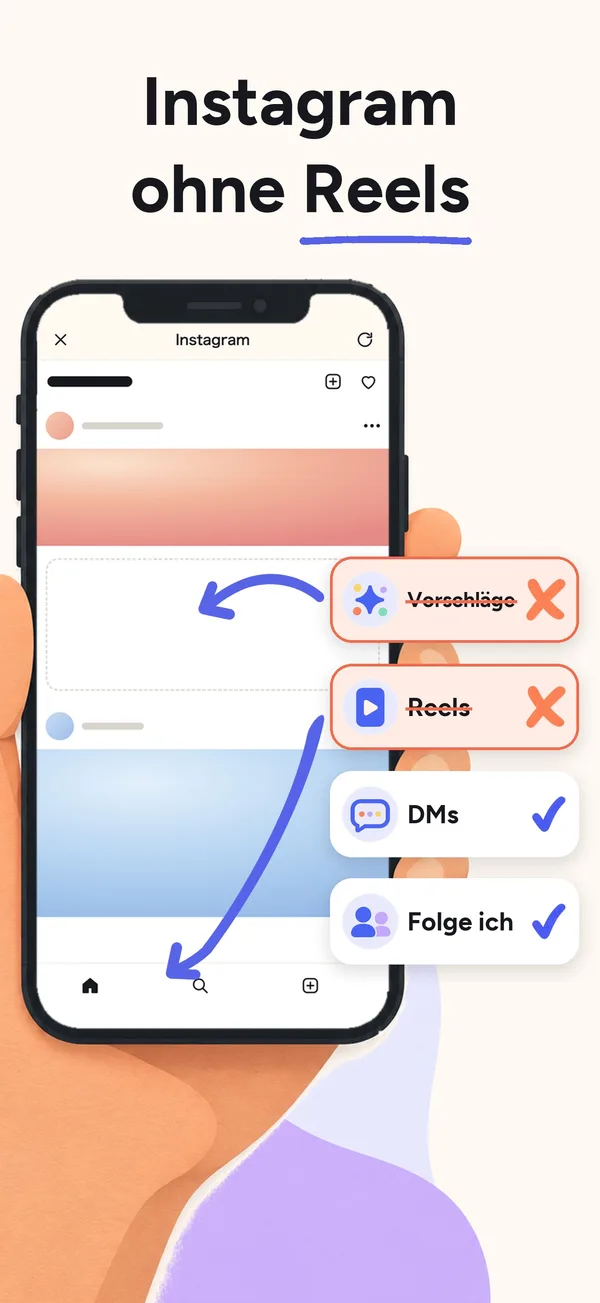
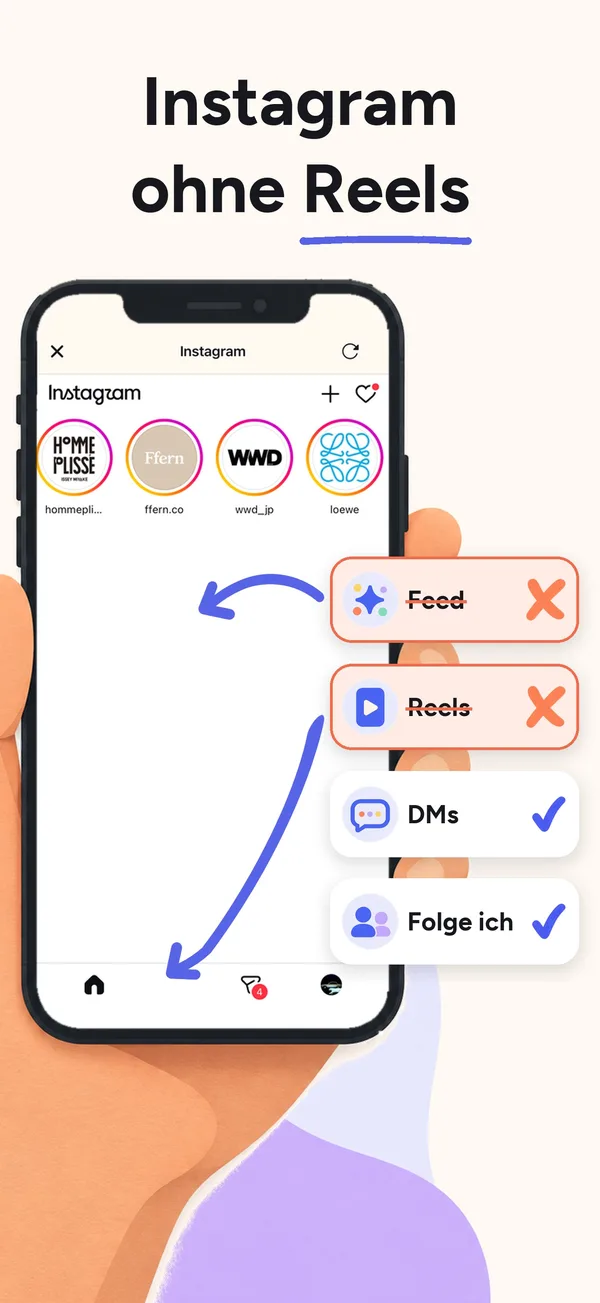
lp: トップのスクショを 1.0.13 で提出した実際の画面（store/f3set113）に／インスタの説明文を「フィードとリールが消え、DM とフォロー中は残る」に（ppo114 は描いた画面だったので戻す）

diff --git a/th/index.html b/th/index.html
@@ -381,7 +381,7 @@ h1,h2{letter-spacing:0;line-height:1.5}
     <p class="wlhome" style="margin-top:10px"><a href="https://docs.google.com/forms/d/e/1FAIpQLScTvhahKgxFJTdpDjP6pzm9rpePgJa_5gsLtuReju56xCve5g/viewform" target="_blank" rel="noopener" data-pos="hero" style="display:inline-block;padding:9px 16px;border:1.5px solid var(--ink2);border-radius:999px;font-size:13.5px;font-weight:700;color:var(--ink);text-decoration:none">ลงชื่อรอเวอร์ชัน Android <span aria-hidden="true">&rarr;</span></a></p>
   </div>
   <div class="fig heroshots">
-    <img src="m/sh-ig.webp" alt="Instagram ใน minulo ที่ซ่อนโพสต์แนะนำและ Reels แล้ว แต่ยังใช้ DM และหน้ากำลังติดตามได้" width="900" height="1955">
+    <img src="m/sh-ig.webp" alt="Instagram ใน minulo ที่ซ่อนฟีดและ Reels แล้ว แต่ยังใช้ DM และหน้ากำลังติดตามได้" width="900" height="1955">
     <img src="m/sh-yt.webp" alt="YouTube ใน minulo ที่ซ่อนแถบ Shorts แล้ว" width="900" height="1955">
   </div>
 </div></div>

diff --git a/ru/index.html b/ru/index.html
@@ -378,7 +378,7 @@ footer .bottom .langs .dot{opacity:.35}
     <p class="wlhome" style="margin-top:10px"><a href="https://docs.google.com/forms/d/e/1FAIpQLScTvhahKgxFJTdpDjP6pzm9rpePgJa_5gsLtuReju56xCve5g/viewform" target="_blank" rel="noopener" data-pos="hero" style="display:inline-block;padding:9px 16px;border:1.5px solid var(--ink2);border-radius:999px;font-size:13.5px;font-weight:700;color:var(--ink);text-decoration:none">У вас Android? Записаться в список ожидания <span aria-hidden="true">&rarr;</span></a></p>
   </div>
   <div class="fig heroshots">
-    <img src="../en/m/sh-ig.webp" alt="Instagram в minulo: рекомендации и Reels скрыты, Директ и подписки остаются" width="900" height="1955">
+    <img src="../en/m/sh-ig.webp" alt="Instagram в minulo: лента и Reels скрыты, Директ и подписки остаются" width="900" height="1955">
     <img src="../en/m/sh-yt.webp" alt="YouTube в minulo: полка Shorts скрыта" width="900" height="1955">
   </div>
 </div></div>

diff --git a/vi/index.html b/vi/index.html
@@ -379,7 +379,7 @@ body{font-family:system-ui,-apple-system,"Segoe UI",Roboto,"Noto Sans",sans-seri
     <p class="wlhome" style="margin-top:10px"><a href="https://docs.google.com/forms/d/e/1FAIpQLScTvhahKgxFJTdpDjP6pzm9rpePgJa_5gsLtuReju56xCve5g/viewform" target="_blank" rel="noopener" data-pos="hero" style="display:inline-block;padding:9px 16px;border:1.5px solid var(--ink2);border-radius:999px;font-size:13.5px;font-weight:700;color:var(--ink);text-decoration:none">Đăng ký chờ bản Android <span aria-hidden="true">&rarr;</span></a></p>
   </div>
   <div class="fig heroshots">
-    <img src="../en/m/sh-ig.webp" alt="Instagram trong minulo: gợi ý và Reels đã được ẩn, tin nhắn và Đang theo dõi vẫn còn" width="900" height="1955">
+    <img src="../en/m/sh-ig.webp" alt="Instagram trong minulo: bảng tin và Reels đã được ẩn, tin nhắn và Đang theo dõi vẫn còn" width="900" height="1955">
     <img src="../en/m/sh-yt.webp" alt="YouTube trong minulo, mục Shorts đã được ẩn" width="900" height="1955">
   </div>
 </div></div>

diff --git a/index.html b/index.html
@@ -381,7 +381,7 @@ footer .bottom .langs .dot{opacity:.35}
     <p class="wlhome" style="margin-top:10px"><a href="https://docs.google.com/forms/d/e/1FAIpQLScTvhahKgxFJTdpDjP6pzm9rpePgJa_5gsLtuReju56xCve5g/viewform" target="_blank" rel="noopener" data-pos="hero" style="display:inline-block;padding:9px 16px;border:1.5px solid var(--ink2);border-radius:999px;font-size:13.5px;font-weight:700;color:var(--ink);text-decoration:none">Android 版の順番待ちに登録 <span aria-hidden="true">&rarr;</span></a></p>
   </div>
   <div class="fig heroshots">
-    <img src="m/sh-ig.webp" alt="minuloで開いたInstagram。おすすめとリールが消えて、DMとフォロー中は残る" width="900" height="1955">
+    <img src="m/sh-ig.webp" alt="minuloで開いたInstagram。フィードとリールが消えて、DMとフォロー中は残る" width="900" height="1955">
     <img src="m/sh-yt.webp" alt="minuloで開いたYouTube。ショート動画の棚が非表示になっている" width="900" height="1955">
   </div>
 </div></div>

diff --git a/zh-Hant/index.html b/zh-Hant/index.html
@@ -380,7 +380,7 @@ body{font-family:"Figtree",system-ui,-apple-system,"PingFang TC","Noto Sans TC",
     <p class="wlhome" style="margin-top:10px"><a href="https://docs.google.com/forms/d/e/1FAIpQLScTvhahKgxFJTdpDjP6pzm9rpePgJa_5gsLtuReju56xCve5g/viewform" target="_blank" rel="noopener" data-pos="hero" style="display:inline-block;padding:9px 16px;border:1.5px solid var(--ink2);border-radius:999px;font-size:13.5px;font-weight:700;color:var(--ink);text-decoration:none">加入 Android 版等候名單 <span aria-hidden="true">&rarr;</span></a></p>
   </div>
   <div class="fig heroshots">
-    <img src="m/sh-ig.webp" alt="在 minulo 開啟的 Instagram，建議貼文和 Reels 已隱藏，私訊和追蹤中照常可用" width="900" height="1955">
+    <img src="m/sh-ig.webp" alt="在 minulo 開啟的 Instagram，動態和 Reels 已隱藏，私訊和追蹤中照常可用" width="900" height="1955">
     <img src="m/sh-yt.webp" alt="在 minulo 開啟的 YouTube，Shorts 區塊已隱藏" width="900" height="1955">
   </div>
 </div></div>

diff --git a/ko/index.html b/ko/index.html
@@ -380,7 +380,7 @@ h1,h2,h3,.chip,.pane li{word-break:keep-all}
     <p class="wlhome" style="margin-top:10px"><a href="https://docs.google.com/forms/d/e/1FAIpQLScTvhahKgxFJTdpDjP6pzm9rpePgJa_5gsLtuReju56xCve5g/viewform" target="_blank" rel="noopener" data-pos="hero" style="display:inline-block;padding:9px 16px;border:1.5px solid var(--ink2);border-radius:999px;font-size:13.5px;font-weight:700;color:var(--ink);text-decoration:none">Android 버전 대기 명단에 등록 <span aria-hidden="true">&rarr;</span></a></p>
   </div>
   <div class="fig heroshots">
-    <img src="m/sh-ig.webp" alt="minulo에서 연 Instagram. 추천과 릴스는 숨겨지고 DM과 팔로잉은 그대로예요" width="900" height="1955">
+    <img src="m/sh-ig.webp" alt="minulo에서 연 Instagram. 피드와 릴스는 숨겨지고 DM과 팔로잉은 그대로예요" width="900" height="1955">
     <img src="m/sh-yt.webp" alt="minulo에서 연 YouTube. 쇼츠 섹션이 숨겨져 있어요" width="900" height="1955">
   </div>
 </div></div>

diff --git a/fr/index.html b/fr/index.html
@@ -377,7 +377,7 @@ footer .bottom .langs .dot{opacity:.35}
     <p class="wlhome" style="margin-top:10px"><a href="https://docs.google.com/forms/d/e/1FAIpQLScTvhahKgxFJTdpDjP6pzm9rpePgJa_5gsLtuReju56xCve5g/viewform" target="_blank" rel="noopener" data-pos="hero" style="display:inline-block;padding:9px 16px;border:1.5px solid var(--ink2);border-radius:999px;font-size:13.5px;font-weight:700;color:var(--ink);text-decoration:none">Sur Android ? Rejoignez la liste d’attente <span aria-hidden="true">&rarr;</span></a></p>
   </div>
   <div class="fig heroshots">
-    <img src="m/sh-ig.webp" alt="Instagram dans minulo : sans suggestions ni Reels, avec vos messages et Abonnements" width="900" height="1955">
+    <img src="m/sh-ig.webp" alt="Instagram dans minulo : sans fil d’actualité ni Reels, avec vos messages et Abonnements" width="900" height="1955">
     <img src="m/sh-yt.webp" alt="YouTube dans minulo, sans les Shorts" width="900" height="1955">
   </div>
 </div></div>

diff --git a/id/index.html b/id/index.html
@@ -378,7 +378,7 @@ footer .bottom .langs .dot{opacity:.35}
     <p class="wlhome" style="margin-top:10px"><a href="https://docs.google.com/forms/d/e/1FAIpQLScTvhahKgxFJTdpDjP6pzm9rpePgJa_5gsLtuReju56xCve5g/viewform" target="_blank" rel="noopener" data-pos="hero" style="display:inline-block;padding:9px 16px;border:1.5px solid var(--ink2);border-radius:999px;font-size:13.5px;font-weight:700;color:var(--ink);text-decoration:none">Pakai Android? Masuk daftar tunggu <span aria-hidden="true">&rarr;</span></a></p>
   </div>
   <div class="fig heroshots">
-    <img src="m/sh-ig.webp" alt="Instagram di minulo: saran dan Reels disembunyikan, DM dan Mengikuti tetap ada" width="900" height="1955">
+    <img src="m/sh-ig.webp" alt="Instagram di minulo: feed dan Reels disembunyikan, DM dan Mengikuti tetap ada" width="900" height="1955">
     <img src="m/sh-yt.webp" alt="YouTube di minulo, rak Shorts disembunyikan" width="900" height="1955">
   </div>
 </div></div>

diff --git a/de/index.html b/de/index.html
@@ -377,7 +377,7 @@ footer .bottom .langs .dot{opacity:.35}
     <p class="wlhome" style="margin-top:10px"><a href="https://docs.google.com/forms/d/e/1FAIpQLScTvhahKgxFJTdpDjP6pzm9rpePgJa_5gsLtuReju56xCve5g/viewform" target="_blank" rel="noopener" data-pos="hero" style="display:inline-block;padding:9px 16px;border:1.5px solid var(--ink2);border-radius:999px;font-size:13.5px;font-weight:700;color:var(--ink);text-decoration:none">Auf die Warteliste für Android <span aria-hidden="true">&rarr;</span></a></p>
   </div>
   <div class="fig heroshots">
-    <img src="m/sh-ig.webp" alt="Instagram in minulo: Vorschläge und Reels ausgeblendet, DMs und Gefolgt bleiben" width="900" height="1955">
+    <img src="m/sh-ig.webp" alt="Instagram in minulo: Feed und Reels ausgeblendet, DMs und Gefolgt bleiben" width="900" height="1955">
     <img src="m/sh-yt.webp" alt="YouTube in minulo, Shorts ausgeblendet" width="900" height="1955">
   </div>
 </div></div>

diff --git a/es/index.html b/es/index.html
@@ -377,7 +377,7 @@ footer .bottom .langs .dot{opacity:.35}
     <p class="wlhome" style="margin-top:10px"><a href="https://docs.google.com/forms/d/e/1FAIpQLScTvhahKgxFJTdpDjP6pzm9rpePgJa_5gsLtuReju56xCve5g/viewform" target="_blank" rel="noopener" data-pos="hero" style="display:inline-block;padding:9px 16px;border:1.5px solid var(--ink2);border-radius:999px;font-size:13.5px;font-weight:700;color:var(--ink);text-decoration:none">¿Usas Android? Únete a la lista de espera <span aria-hidden="true">&rarr;</span></a></p>
   </div>
   <div class="fig heroshots">
-    <img src="m/sh-ig.webp" alt="Instagram en minulo: sin sugerencias ni Reels, con tus DM y Siguiendo" width="900" height="1955">
+    <img src="m/sh-ig.webp" alt="Instagram en minulo: sin feed ni Reels, con tus DM y Siguiendo" width="900" height="1955">
     <img src="m/sh-yt.webp" alt="YouTube en minulo, sin la sección de Shorts" width="900" height="1955">
   </div>
 </div></div>

diff --git a/en/index.html b/en/index.html
@@ -377,7 +377,7 @@ footer .bottom .langs .dot{opacity:.35}
     <p class="wlhome" style="margin-top:10px"><a href="https://docs.google.com/forms/d/e/1FAIpQLScTvhahKgxFJTdpDjP6pzm9rpePgJa_5gsLtuReju56xCve5g/viewform" target="_blank" rel="noopener" data-pos="hero" style="display:inline-block;padding:9px 16px;border:1.5px solid var(--ink2);border-radius:999px;font-size:13.5px;font-weight:700;color:var(--ink);text-decoration:none">On Android? Join the waitlist <span aria-hidden="true">&rarr;</span></a></p>
   </div>
   <div class="fig heroshots">
-    <img src="m/sh-ig.webp" alt="Instagram in minulo: suggestions and Reels hidden, DMs and Following kept" width="900" height="1955">
+    <img src="m/sh-ig.webp" alt="Instagram in minulo: feed and Reels hidden, DMs and Following kept" width="900" height="1955">
     <img src="m/sh-yt.webp" alt="YouTube in minulo, with the Shorts shelf hidden" width="900" height="1955">
   </div>
 </div></div>

diff --git a/pt/index.html b/pt/index.html
@@ -377,7 +377,7 @@ footer .bottom .langs .dot{opacity:.35}
     <p class="wlhome" style="margin-top:10px"><a href="https://docs.google.com/forms/d/e/1FAIpQLScTvhahKgxFJTdpDjP6pzm9rpePgJa_5gsLtuReju56xCve5g/viewform" target="_blank" rel="noopener" data-pos="hero" style="display:inline-block;padding:9px 16px;border:1.5px solid var(--ink2);border-radius:999px;font-size:13.5px;font-weight:700;color:var(--ink);text-decoration:none">Usa Android? Entre na lista de espera <span aria-hidden="true">&rarr;</span></a></p>
   </div>
   <div class="fig heroshots">
-    <img src="m/sh-ig.webp" alt="Instagram no minulo: sem sugestões e sem Reels, com DMs e Seguindo" width="900" height="1955">
+    <img src="m/sh-ig.webp" alt="Instagram no minulo: sem feed e sem Reels, com DMs e Seguindo" width="900" height="1955">
     <img src="m/sh-yt.webp" alt="YouTube no minulo, sem a seção de Shorts" width="900" height="1955">
   </div>
 </div></div>
